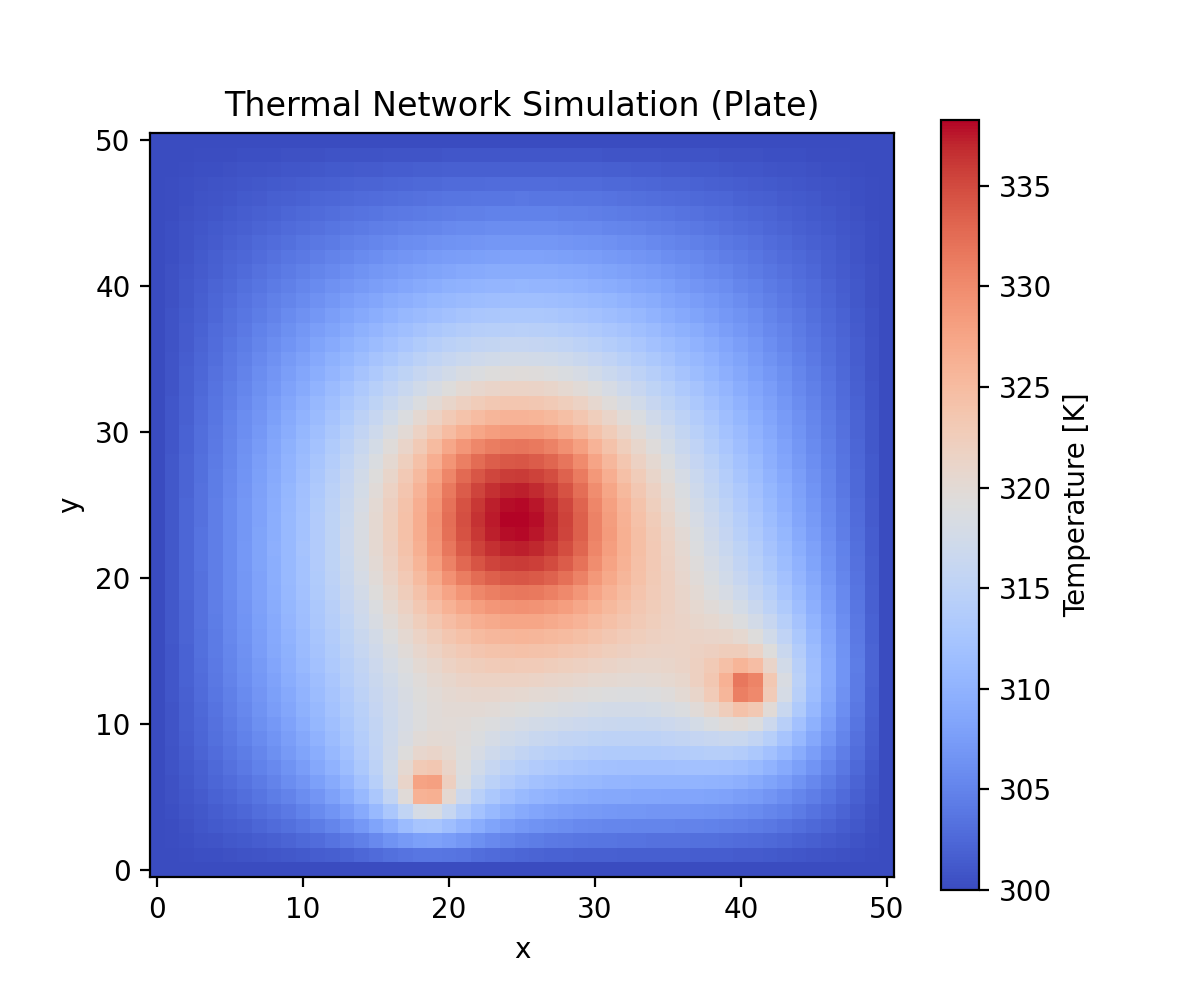
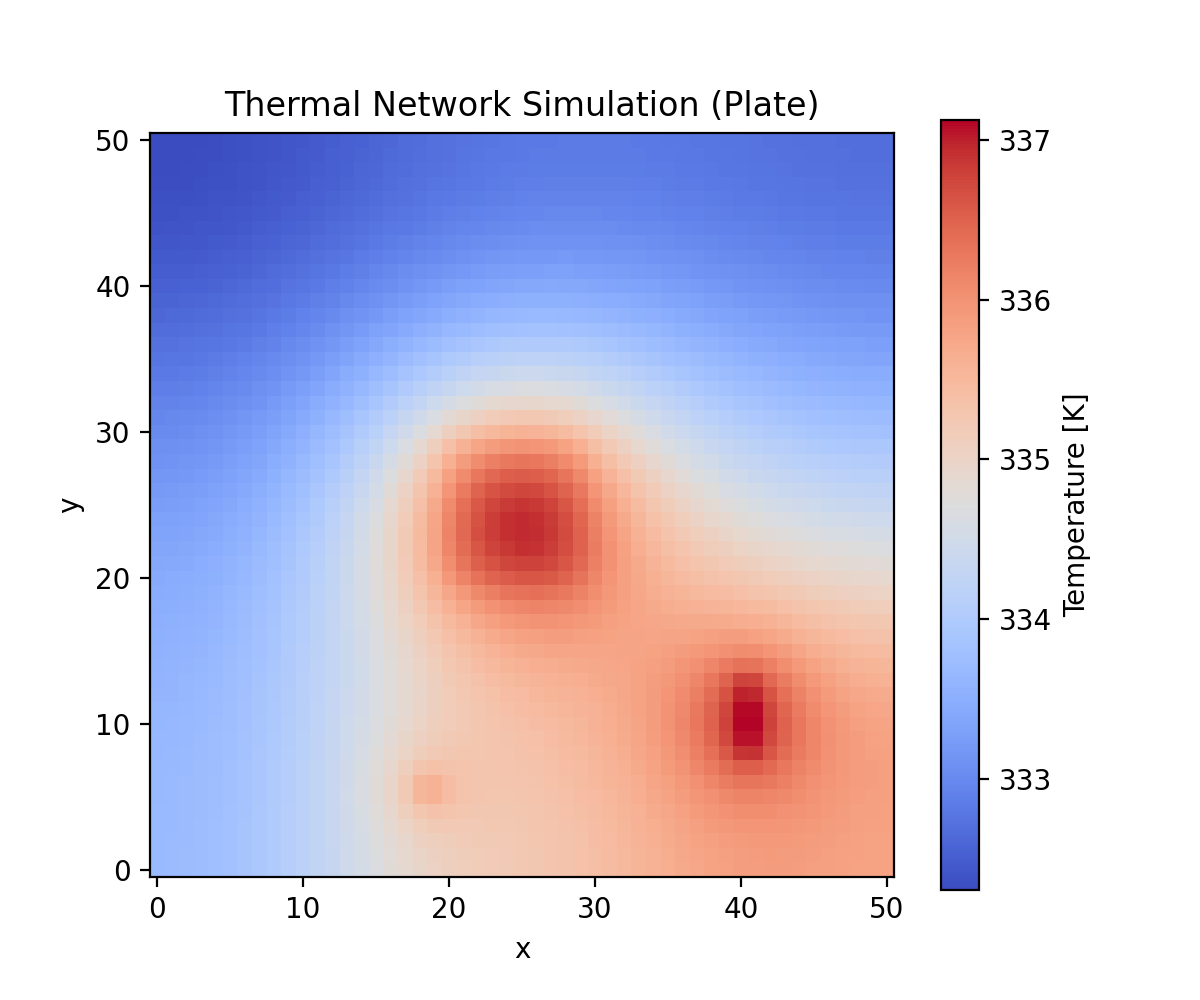
mod: 温度修正

diff --git a/src/heat_circuit/simulation.py b/src/heat_circuit/simulation.py
@@ -12,10 +12,11 @@ def build_graph(
     k: float,
     thickness: float,
     Q: np.ndarray,
-    BC: np.ndarray,
+    T_air: float,
+    h_conv: float,
 ) -> Graph:
     """
-    グラフを構築する。
+    グラフを構築する。自然空冷条件ですべてのプレートノードを空気ノードに接続。
 
     * param nx: x方向のノード数
     * param ny: y方向のノード数
@@ -24,29 +25,34 @@ def build_graph(
     * param k: 熱伝導率 [W/mK]
     * param thickness: 板厚 [m]
     * param Q: 熱源分布 [W]
-    * param BC: 境界条件 [K]
+    * param T_air: 空気温度 [K]
+    * param h_conv: 対流係数 [W/(m²K)]
     * return: 構築されたグラフ
     """
     G = Graph()
     area = thickness * dy  # 断面積 [m^2]
 
+    # 空気ノードを追加（ノードID: nx * ny）
+    air_node_id = nx * ny
+    air_node = Node(
+        id=air_node_id,
+        pos=(0.0, 0.0, 0.0),
+        temperature=T_air,
+        heat=0.0,
+        boundary_type=BoundaryType.DIRICHLET,
+        boundary_value=T_air,
+    )
+    G.add_node(air_node)
+
     # まず全ノードを追加
     for i, j in product(range(nx), range(ny)):
-        # 境界条件を判定
-        if BC[i, j] != 0.0:
-            boundary_type = BoundaryType.DIRICHLET
-            boundary_value = BC[i, j]
-        else:
-            boundary_type = BoundaryType.INTERIOR
-            boundary_value = None
-
         node = Node(
             id=i * ny + j,
             pos=(i * dx, j * dy, 0.0),
             temperature=None,
             heat=float(Q[i, j]),
-            boundary_type=boundary_type,
-            boundary_value=boundary_value,
+            boundary_type=BoundaryType.INTERIOR,
+            boundary_value=None,
         )
         G.add_node(node)
 
@@ -66,6 +72,14 @@ def build_graph(
             resistance = float(dy / (k * area))
             G.add_edge(u, v, resistance)
 
+    # プレートのすべてのノードを空気ノードに接続（両側の表面から対流）
+    # 表面積: 両側 = 2 * dx * dy
+    surface_area = 2 * dx * dy
+    conv_resistance = 1.0 / (h_conv * surface_area)
+    for i, j in product(range(nx), range(ny)):
+        u = i * ny + j
+        G.add_edge(u, air_node_id, conv_resistance)
+
     return G
 
 
@@ -81,7 +95,8 @@ def solve_thermal_network(G: Graph, nx: int, ny: int) -> np.ndarray:
     # -----------------------
     # 連立方程式を組み立てる
     # -----------------------
-    N = nx * ny
+    # ノード数 = プレート + 空気ノード
+    N = nx * ny + 1
     A = np.zeros((N, N))
     b = np.zeros(N)
 
@@ -105,10 +120,13 @@ def solve_thermal_network(G: Graph, nx: int, ny: int) -> np.ndarray:
 
     # 連立方程式を解く
     T = np.linalg.solve(A, b)
-    T = T.reshape((nx, ny))
+
+    # プレート部分の温度を取り出す
+    T_plate = T[: nx * ny]
+    T_plate = T_plate.reshape((nx, ny))
 
     # ノードに温度を書き戻す
     for i, j in product(range(nx), range(ny)):
-        G.nodes[i * ny + j].temperature = float(T[i, j])
+        G.nodes[i * ny + j].temperature = float(T_plate[i, j])
 
-    return T
+    return T_plate

diff --git a/src/main.py b/src/main.py
@@ -6,25 +6,24 @@ from heat_circuit import build_graph, solve_thermal_network, plot_and_save
 # パラメータ
 # -----------------------
 nx, ny = 51, 51
-dx, dy = 0.001, 0.001  # ノード間距離 [m]
+dx, dy = 0.002, 0.002  # ノード間距離 [m]
 k = 236.0  # 熱伝導率 [W/mK] (アルミニウム)
-thickness = 0.001  # 板厚 [m]
+thickness = 0.002  # 板厚 [m]
+
+# 自然空冷条件
+T_air = 15.0 + 273.15  # 空気温度 [K] (15℃)
+h_conv = 10.0  # 対流係数 [W/(m²K)] (自然空冷)
 
 # 熱源 [W]
 Q = np.zeros((nx, ny))
-Q[20:30, 20:30] = 24.0 / 100
-Q[5:7, 18:20] = 12.0 / 4
-Q[12:14, 40:42] = 12.0 / 4
-
-# 境界条件
-BC = np.zeros((nx, ny))
-BC[[0, -1], :] = 300.0
-BC[:, [0, -1]] = 300.0
+Q[20:30, 20:30] = 6.0 / 100
+Q[5:7, 18:20] = 1.0 / 4
+Q[8:14, 40:42] = 2.6 / 12
 
 
 def main():
     # グラフの構築
-    G = build_graph(nx, ny, dx, dy, k, thickness, Q, BC)
+    G = build_graph(nx, ny, dx, dy, k, thickness, Q, T_air, h_conv)
 
     # 熱ネットワークの解く
     T = solve_thermal_network(G, nx, ny)
